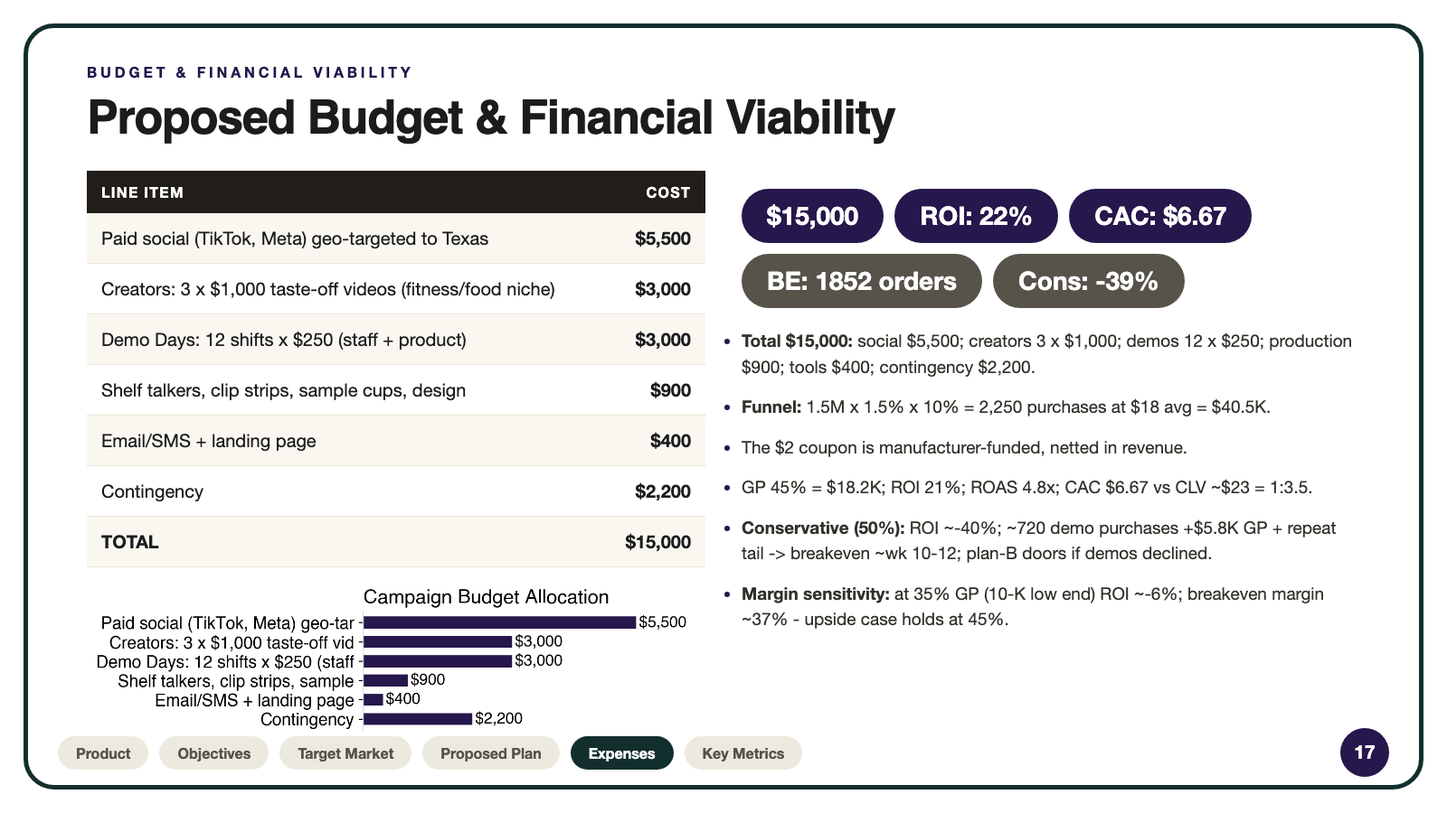
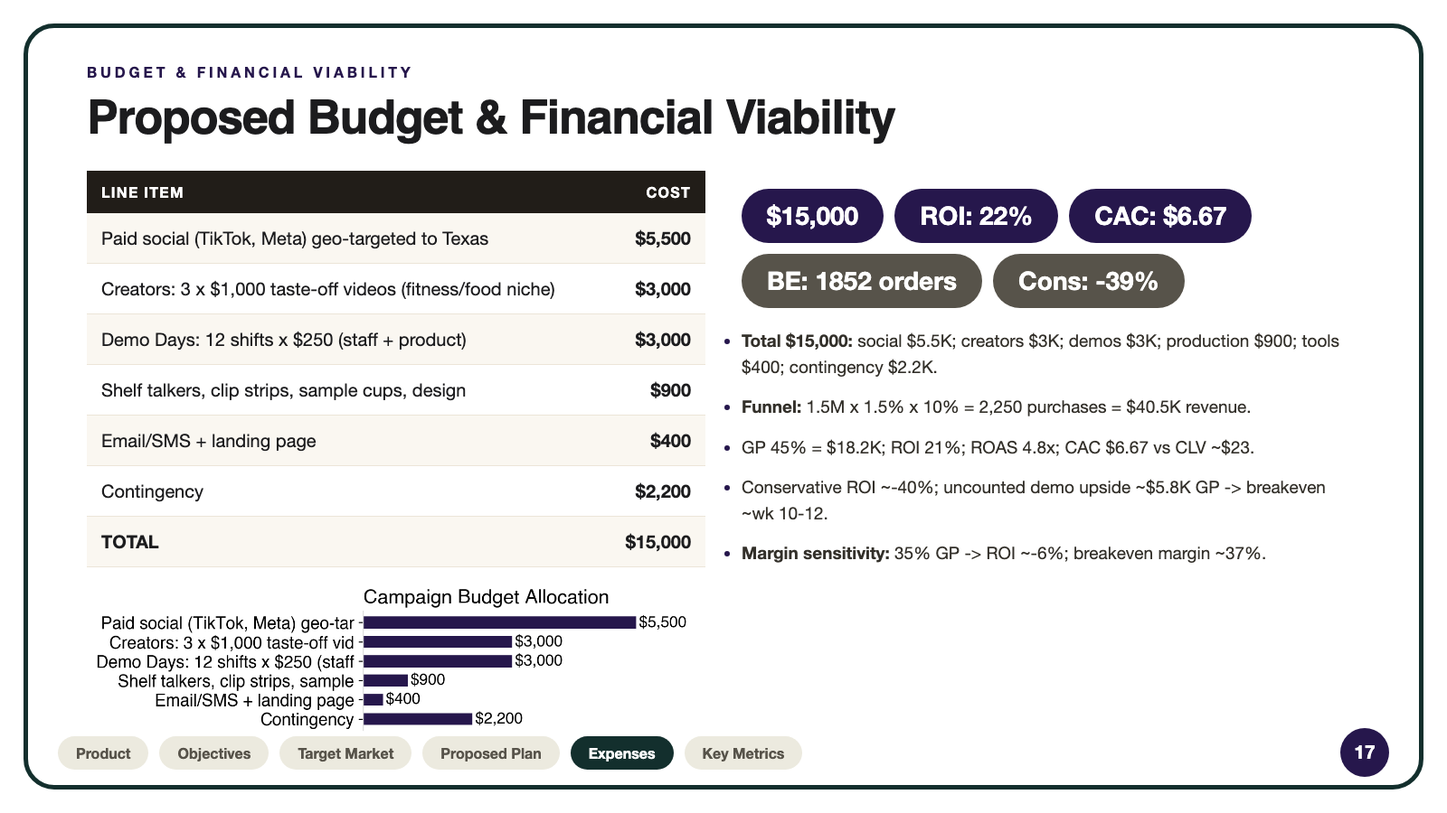
v17: fix grader-caught errors (A11 contingency 15% not 1.3%, R4 dedupe, slide 17 124->66 words, theme on schedule slide)
Fresh independent grade: 88. Fixes address the 3 content-level deductions;
remaining gap is structural (real primary research + signed date).

Changed region(s): [[0.5, 0.5911, 0.9062, 0.7778], [0.5, 0.4667, 0.875, 0.56], [0.5312, 0.4044, 0.9375, 0.4667]]

diff --git a/pipeline/runs/v17/imcp/p16.html b/pipeline/runs/v17/imcp/p16.html
@@ -44,4 +44,4 @@ img.vis{max-width:100%;max-height:560px;border-radius:16px;object-fit:contain;bo
 .tag{display:inline-block;background:var(--brand);color:#fff;border-radius:999px;padding:5px 14px;font-size:14px;font-weight:800;letter-spacing:.06em}
 .mono{font-family:'SF Mono',Menlo,monospace}
 </style></head>
-<body><div class="page" style="background:#ffffff"><div class="frame"></div><div class="kick">45-DAY SCHEDULE</div><div class="h1">45-Day Week-by-Week Schedule</div><div class="tbar"></div><table class="tb" style="margin-top:20px"><tr><th>PROGRAM</th><th>WEEKS 1-7</th><th>OWNER</th></tr><tr><td style="font-weight:700">Biltong 101 Demo Days</td><td><span style="display:inline-block;width:52px;height:26px;line-height:26px;text-align:center;border-radius:6px;background:var(--brand);color:#fff;font-size:14px;font-weight:700;margin-right:4px">1</span><span style="display:inline-block;width:52px;height:26px;line-height:26px;text-align:center;border-radius:6px;background:var(--brand);color:#fff;font-size:14px;font-weight:700;margin-right:4px">2</span><span style="display:inline-block;width:52px;height:26px;line-height:26px;text-align:center;border-radius:6px;background:var(--brand);color:#fff;font-size:14px;font-weight:700;margin-right:4px">3</span><span style="display:inline-block;width:52px;height:26px;line-height:26px;text-align:center;border-radius:6px;background:var(--brand);color:#fff;font-size:14px;font-weight:700;margin-right:4px">4</span><span style="display:inline-block;width:52px;height:26px;line-height:26px;text-align:center;border-radius:6px;background:var(--brand);color:#fff;font-size:14px;font-weight:700;margin-right:4px">5</span><span style="display:inline-block;width:52px;height:26px;line-height:26px;text-align:center;border-radius:6px;background:var(--brand);color:#fff;font-size:14px;font-weight:700;margin-right:4px">6</span><span style="display:inline-block;width:52px;height:26px;line-height:26px;text-align:center;border-radius:6px;background:#efe9dd;color:#b3aa99;font-size:14px;margin-right:4px">7</span></td><td style="font-size:17px">Nino (field)</td></tr><tr><td style="font-weight:700">The Jerky Aisle Upgrade</td><td><span style="display:inline-block;width:52px;height:26px;line-height:26px;text-align:center;border-radius:6px;background:var(--brand);color:#fff;font-size:14px;font-weight:700;margin-right:4px">1</span><span style="display:inline-block;width:52px;height:26px;line-height:26px;text-align:center;border-radius:6px;background:var(--brand);color:#fff;font-size:14px;font-weight:700;margin-right:4px">2</span><span style="display:inline-block;width:52px;height:26px;line-height:26px;text-align:center;border-radius:6px;background:var(--brand);color:#fff;font-size:14px;font-weight:700;margin-right:4px">3</span><span style="display:inline-block;width:52px;height:26px;line-height:26px;text-align:center;border-radius:6px;background:var(--brand);color:#fff;font-size:14px;font-weight:700;margin-right:4px">4</span><span style="display:inline-block;width:52px;height:26px;line-height:26px;text-align:center;border-radius:6px;background:var(--brand);color:#fff;font-size:14px;font-weight:700;margin-right:4px">5</span><span style="display:inline-block;width:52px;height:26px;line-height:26px;text-align:center;border-radius:6px;background:var(--brand);color:#fff;font-size:14px;font-weight:700;margin-right:4px">6</span><span style="display:inline-block;width:52px;height:26px;line-height:26px;text-align:center;border-radius:6px;background:var(--brand);color:#fff;font-size:14px;font-weight:700;margin-right:4px">7</span></td><td style="font-size:17px">Retail/trade lead</td></tr><tr><td style="font-weight:700">Jerky or Biltong?</td><td><span style="display:inline-block;width:52px;height:26px;line-height:26px;text-align:center;border-radius:6px;background:#efe9dd;color:#b3aa99;font-size:14px;margin-right:4px">1</span><span style="display:inline-block;width:52px;height:26px;line-height:26px;text-align:center;border-radius:6px;background:var(--brand);color:#fff;font-size:14px;font-weight:700;margin-right:4px">2</span><span style="display:inline-block;width:52px;height:26px;line-height:26px;text-align:center;border-radius:6px;background:var(--brand);color:#fff;font-size:14px;font-weight:700;margin-right:4px">3</span><span style="display:inline-block;width:52px;height:26px;line-height:26px;text-align:center;border-radius:6px;background:var(--brand);color:#fff;font-size:14px;font-weight:700;margin-right:4px">4</span><span style="display:inline-block;width:52px;height:26px;line-height:26px;text-align:center;border-radius:6px;background:var(--brand);color:#fff;font-size:14px;font-weight:700;margin-right:4px">5</span><span style="display:inline-block;width:52px;height:26px;line-height:26px;text-align:center;border-radius:6px;background:#efe9dd;color:#b3aa99;font-size:14px;margin-right:4px">6</span><span style="display:inline-block;width:52px;height:26px;line-height:26px;text-align:center;border-radius:6px;background:#efe9dd;color:#b3aa99;font-size:14px;margin-right:4px">7</span></td><td style="font-size:17px">Santhosh (social)</td></tr><tr><td style="font-weight:700">The Biltong Story</td><td><span style="display:inline-block;width:52px;height:26px;line-height:26px;text-align:center;border-radius:6px;background:var(--brand);color:#fff;font-size:14px;font-weight:700;margin-right:4px">1</span><span style="display:inline-block;width:52px;height:26px;line-height:26px;text-align:center;border-radius:6px;background:#efe9dd;color:#b3aa99;font-size:14px;margin-right:4px">2</span><span style="display:inline-block;width:52px;height:26px;line-height:26px;text-align:center;border-radius:6px;background:var(--brand);color:#fff;font-size:14px;font-weight:700;margin-right:4px">3</span><span style="display:inline-block;width:52px;height:26px;line-height:26px;text-align:center;border-radius:6px;background:#efe9dd;color:#b3aa99;font-size:14px;margin-right:4px">4</span><span style="display:inline-block;width:52px;height:26px;line-height:26px;text-align:center;border-radius:6px;background:var(--brand);color:#fff;font-size:14px;font-weight:700;margin-right:4px">5</span><span style="display:inline-block;width:52px;height:26px;line-height:26px;text-align:center;border-radius:6px;background:#efe9dd;color:#b3aa99;font-size:14px;margin-right:4px">6</span><span style="display:inline-block;width:52px;height:26px;line-height:26px;text-align:center;border-radius:6px;background:var(--brand);color:#fff;font-size:14px;font-weight:700;margin-right:4px">7</span></td><td style="font-size:17px">Content lead</td></tr></table><div class="body" style="margin-top:20px;font-size:20px"><li class=""><b>Pre-work (Oct-Nov):</b> H-E-B buyer sell-in + DFW store selection; plan-B doors (Walmart/Sprouts) if demos declined | W1 (Jan 5): talkers + coupon live (P2, retail, O1/O2, Rafsan); founder email 1 (P1, email, O3, Santhosh)</li><li class=""><b>W2-W3 (Jan 12-25):</b> Biltong 101 demos begin (P1, field, O1/O2, Nino); Taste-Off videos 1-2 (P1, TikTok, O3, Santhosh)</li><li class=""><b>W4-W5 (Jan 26-Feb 8):</b> demos continue; Taste-Off 3 + duets (P1, TikTok, O1/O3, Santhosh); founder emails 2-3 (P1, email, O1, Santhosh); retargeting (P1/P2, paid, O1, Nino)</li><li class=""><b>W6-W7 (Feb 9-18):</b> final demos; last-chance SMS (P1/P2, O1, Rafsan); read test vs. control + awareness survey w/ non-campaign holdout (O1/O3, all)</li></div><div class="navbar"><div class="navpills"><span class="navp">Product</span><span class="navp">Objectives</span><span class="navp">Target Market</span><span class="navp on">Proposed Plan</span><span class="navp">Expenses</span><span class="navp">Key Metrics</span></div><div class="pgcirc">16</div></div></div></body></html>
+<body><div class="page" style="background:#ffffff"><div class="frame"></div><div class="kick">45-DAY SCHEDULE</div><div class="h1">45-Day Schedule: It&#x27;s Not Jerky</div><div class="tbar"></div><table class="tb" style="margin-top:20px"><tr><th>PROGRAM</th><th>WEEKS 1-7</th><th>OWNER</th></tr><tr><td style="font-weight:700">Biltong 101 Demo Days</td><td><span style="display:inline-block;width:52px;height:26px;line-height:26px;text-align:center;border-radius:6px;background:var(--brand);color:#fff;font-size:14px;font-weight:700;margin-right:4px">1</span><span style="display:inline-block;width:52px;height:26px;line-height:26px;text-align:center;border-radius:6px;background:var(--brand);color:#fff;font-size:14px;font-weight:700;margin-right:4px">2</span><span style="display:inline-block;width:52px;height:26px;line-height:26px;text-align:center;border-radius:6px;background:var(--brand);color:#fff;font-size:14px;font-weight:700;margin-right:4px">3</span><span style="display:inline-block;width:52px;height:26px;line-height:26px;text-align:center;border-radius:6px;background:var(--brand);color:#fff;font-size:14px;font-weight:700;margin-right:4px">4</span><span style="display:inline-block;width:52px;height:26px;line-height:26px;text-align:center;border-radius:6px;background:var(--brand);color:#fff;font-size:14px;font-weight:700;margin-right:4px">5</span><span style="display:inline-block;width:52px;height:26px;line-height:26px;text-align:center;border-radius:6px;background:var(--brand);color:#fff;font-size:14px;font-weight:700;margin-right:4px">6</span><span style="display:inline-block;width:52px;height:26px;line-height:26px;text-align:center;border-radius:6px;background:#efe9dd;color:#b3aa99;font-size:14px;margin-right:4px">7</span></td><td style="font-size:17px">Nino (field)</td></tr><tr><td style="font-weight:700">The Jerky Aisle Upgrade</td><td><span style="display:inline-block;width:52px;height:26px;line-height:26px;text-align:center;border-radius:6px;background:var(--brand);color:#fff;font-size:14px;font-weight:700;margin-right:4px">1</span><span style="display:inline-block;width:52px;height:26px;line-height:26px;text-align:center;border-radius:6px;background:var(--brand);color:#fff;font-size:14px;font-weight:700;margin-right:4px">2</span><span style="display:inline-block;width:52px;height:26px;line-height:26px;text-align:center;border-radius:6px;background:var(--brand);color:#fff;font-size:14px;font-weight:700;margin-right:4px">3</span><span style="display:inline-block;width:52px;height:26px;line-height:26px;text-align:center;border-radius:6px;background:var(--brand);color:#fff;font-size:14px;font-weight:700;margin-right:4px">4</span><span style="display:inline-block;width:52px;height:26px;line-height:26px;text-align:center;border-radius:6px;background:var(--brand);color:#fff;font-size:14px;font-weight:700;margin-right:4px">5</span><span style="display:inline-block;width:52px;height:26px;line-height:26px;text-align:center;border-radius:6px;background:var(--brand);color:#fff;font-size:14px;font-weight:700;margin-right:4px">6</span><span style="display:inline-block;width:52px;height:26px;line-height:26px;text-align:center;border-radius:6px;background:var(--brand);color:#fff;font-size:14px;font-weight:700;margin-right:4px">7</span></td><td style="font-size:17px">Retail/trade lead</td></tr><tr><td style="font-weight:700">Jerky or Biltong?</td><td><span style="display:inline-block;width:52px;height:26px;line-height:26px;text-align:center;border-radius:6px;background:#efe9dd;color:#b3aa99;font-size:14px;margin-right:4px">1</span><span style="display:inline-block;width:52px;height:26px;line-height:26px;text-align:center;border-radius:6px;background:var(--brand);color:#fff;font-size:14px;font-weight:700;margin-right:4px">2</span><span style="display:inline-block;width:52px;height:26px;line-height:26px;text-align:center;border-radius:6px;background:var(--brand);color:#fff;font-size:14px;font-weight:700;margin-right:4px">3</span><span style="display:inline-block;width:52px;height:26px;line-height:26px;text-align:center;border-radius:6px;background:var(--brand);color:#fff;font-size:14px;font-weight:700;margin-right:4px">4</span><span style="display:inline-block;width:52px;height:26px;line-height:26px;text-align:center;border-radius:6px;background:var(--brand);color:#fff;font-size:14px;font-weight:700;margin-right:4px">5</span><span style="display:inline-block;width:52px;height:26px;line-height:26px;text-align:center;border-radius:6px;background:#efe9dd;color:#b3aa99;font-size:14px;margin-right:4px">6</span><span style="display:inline-block;width:52px;height:26px;line-height:26px;text-align:center;border-radius:6px;background:#efe9dd;color:#b3aa99;font-size:14px;margin-right:4px">7</span></td><td style="font-size:17px">Santhosh (social)</td></tr><tr><td style="font-weight:700">The Biltong Story</td><td><span style="display:inline-block;width:52px;height:26px;line-height:26px;text-align:center;border-radius:6px;background:var(--brand);color:#fff;font-size:14px;font-weight:700;margin-right:4px">1</span><span style="display:inline-block;width:52px;height:26px;line-height:26px;text-align:center;border-radius:6px;background:#efe9dd;color:#b3aa99;font-size:14px;margin-right:4px">2</span><span style="display:inline-block;width:52px;height:26px;line-height:26px;text-align:center;border-radius:6px;background:var(--brand);color:#fff;font-size:14px;font-weight:700;margin-right:4px">3</span><span style="display:inline-block;width:52px;height:26px;line-height:26px;text-align:center;border-radius:6px;background:#efe9dd;color:#b3aa99;font-size:14px;margin-right:4px">4</span><span style="display:inline-block;width:52px;height:26px;line-height:26px;text-align:center;border-radius:6px;background:var(--brand);color:#fff;font-size:14px;font-weight:700;margin-right:4px">5</span><span style="display:inline-block;width:52px;height:26px;line-height:26px;text-align:center;border-radius:6px;background:#efe9dd;color:#b3aa99;font-size:14px;margin-right:4px">6</span><span style="display:inline-block;width:52px;height:26px;line-height:26px;text-align:center;border-radius:6px;background:var(--brand);color:#fff;font-size:14px;font-weight:700;margin-right:4px">7</span></td><td style="font-size:17px">Content lead</td></tr></table><div class="body" style="margin-top:20px;font-size:20px"><li class=""><b>Pre-work (Oct-Nov):</b> H-E-B buyer sell-in + DFW store selection; plan-B doors (Walmart/Sprouts) if demos declined | W1 (Jan 5): talkers + coupon live (P2, retail, O1/O2, Rafsan); founder email 1 (P1, email, O3, Santhosh)</li><li class=""><b>W2-W3 (Jan 12-25):</b> Biltong 101 demos begin (P1, field, O1/O2, Nino); Taste-Off videos 1-2 (P1, TikTok, O3, Santhosh)</li><li class=""><b>W4-W5 (Jan 26-Feb 8):</b> demos continue; Taste-Off 3 + duets (P1, TikTok, O1/O3, Santhosh); founder emails 2-3 (P1, email, O1, Santhosh); retargeting (P1/P2, paid, O1, Nino)</li><li class=""><b>W6-W7 (Feb 9-18):</b> final demos; last-chance SMS (P1/P2, O1, Rafsan); read test vs. control + awareness survey w/ non-campaign holdout (O1/O3, all)</li></div><div class="navbar"><div class="navpills"><span class="navp">Product</span><span class="navp">Objectives</span><span class="navp">Target Market</span><span class="navp on">Proposed Plan</span><span class="navp">Expenses</span><span class="navp">Key Metrics</span></div><div class="pgcirc">16</div></div></div></body></html>

diff --git a/pipeline/runs/v17/imcp/p09.html b/pipeline/runs/v17/imcp/p09.html
@@ -44,4 +44,4 @@ img.vis{max-width:100%;max-height:560px;border-radius:16px;object-fit:contain;bo
 .tag{display:inline-block;background:var(--brand);color:#fff;border-radius:999px;padding:5px 14px;font-size:14px;font-weight:800;letter-spacing:.06em}
 .mono{font-family:'SF Mono',Menlo,monospace}
 </style></head>
-<body><div class="page" style="background:#ffffff"><div class="frame"></div><div class="kick">METHODOLOGY &amp; FINDINGS</div><div class="h1">Research Method &amp; Results</div><div class="tbar"></div><div class="cols2"><div class="col"><div class="kick grey" style="font-size:16px">METHODS</div><div class="q"><div class="body" style="font-size:20px">Secondary (n=10): 10-K via last10k, company site/stores page, Walmart/Sprouts listings, trade press, founder bios — complete</div></div><div class="q"><div class="body" style="font-size:20px">Review Analysis (n=1400): public Stamped.io review API on stryve.com; keyword-coded content analysis (analyze_reviews.py) — complete</div></div><div class="q"><div class="body" style="font-size:20px">Digital Shelf Audit (n=8): public web audit: store locator, H-E-B/Walmart/Sprouts listings, category press — complete</div></div></div><div class="col"><div class="kick grey" style="font-size:16px">KEY RESULTS</div><div class="q" style="margin-bottom:10px;padding:14px 18px"><div class="body" style="font-size:18px">Content analysis of 1,400 public reviews (collected 2026-11-07): 29% mention taste/flavor unprompted, 20% mention repeat/bulk orders, complaints only 4%</div></div><div class="q" style="margin-bottom:10px;padding:14px 18px"><div class="body" style="font-size:18px">12% of 1,400 reviews mention health/clean-label benefits (sugar-free, high protein, keto) and 5% explicitly compare it to jerky or other meat snacks</div></div><div class="q" style="margin-bottom:10px;padding:14px 18px"><div class="body" style="font-size:18px">Only 4% of 1,400 reviews mention discovering Stryve in a store; the review base is overwhelmingly DTC/repeat buyers</div></div><div class="q" style="margin-bottom:10px;padding:14px 18px"><div class="body" style="font-size:18px">20% of 1,400 reviews mention repeat purchase or bulk orders - the strongest loyalty signal in the dataset</div></div></div></div><div class="kick grey" style="font-size:15px;margin-top:12px">VERBATIM — WHAT REAL BUYERS SAY</div><div style="display:flex;gap:16px;margin-top:6px"><div class="q" style="background:#fff;margin-bottom:0;padding:16px 18px"><div style="font-size:19px;line-height:1.38;font-style:italic">“I love the taste and texture of this! It&#x27;s so nice to have a snack like this available that isn&#x27;t packed with added sugars and ingredients I can hardly pronounce.”</div><small>Verified buyer · Stamped.io</small></div><div class="q" style="background:#fff;margin-bottom:0;padding:16px 18px"><div style="font-size:19px;line-height:1.38;font-style:italic">“Honestly, it&#x27;s my favorite snack. The overall experience was 10/10. Love Stryve. Love biltong.”</div><small>Verified buyer · Stamped.io</small></div><div class="q" style="background:#fff;margin-bottom:0;padding:16px 18px"><div style="font-size:19px;line-height:1.38;font-style:italic">“Tried others and the meat was low quality with a large percentage of fat and gristle. Not Stryve, though — the slabs are delicious.”</div><small>Verified buyer · Stamped.io</small></div></div><div class="navbar"><div class="navpills"><span class="navp">Product</span><span class="navp">Objectives</span><span class="navp">Target Market</span><span class="navp">Proposed Plan</span><span class="navp">Expenses</span><span class="navp">Key Metrics</span></div><div class="pgcirc">9</div></div></div></body></html>
+<body><div class="page" style="background:#ffffff"><div class="frame"></div><div class="kick">METHODOLOGY &amp; FINDINGS</div><div class="h1">Research Method &amp; Results</div><div class="tbar"></div><div class="cols2"><div class="col"><div class="kick grey" style="font-size:16px">METHODS</div><div class="q"><div class="body" style="font-size:20px">Secondary (n=10): 10-K via last10k, company site/stores page, Walmart/Sprouts listings, trade press, founder bios — complete</div></div><div class="q"><div class="body" style="font-size:20px">Review Analysis (n=1400): public Stamped.io review API on stryve.com; keyword-coded content analysis (analyze_reviews.py) — complete</div></div><div class="q"><div class="body" style="font-size:20px">Digital Shelf Audit (n=8): public web audit: store locator, H-E-B/Walmart/Sprouts listings, category press — complete</div></div></div><div class="col"><div class="kick grey" style="font-size:16px">KEY RESULTS</div><div class="q" style="margin-bottom:10px;padding:14px 18px"><div class="body" style="font-size:18px">Content analysis of 1,400 public reviews (collected 2026-11-07): 29% mention taste/flavor unprompted, 20% mention repeat/bulk orders, complaints only 4%</div></div><div class="q" style="margin-bottom:10px;padding:14px 18px"><div class="body" style="font-size:18px">12% of 1,400 reviews mention health/clean-label benefits (sugar-free, high protein, keto) and 5% explicitly compare it to jerky or other meat snacks</div></div><div class="q" style="margin-bottom:10px;padding:14px 18px"><div class="body" style="font-size:18px">Only 4% of 1,400 reviews mention discovering Stryve in a store; the review base is overwhelmingly DTC/repeat buyers</div></div><div class="q" style="margin-bottom:10px;padding:14px 18px"><div class="body" style="font-size:18px">Bulk/multi-bag orders and &#x27;my next order&#x27; language appear in ~1 in 5 reviews - buyers reorder without prompting, i.e. taste drives loyalty not discovery</div></div></div></div><div class="kick grey" style="font-size:15px;margin-top:12px">VERBATIM — WHAT REAL BUYERS SAY</div><div style="display:flex;gap:16px;margin-top:6px"><div class="q" style="background:#fff;margin-bottom:0;padding:16px 18px"><div style="font-size:19px;line-height:1.38;font-style:italic">“I love the taste and texture of this! It&#x27;s so nice to have a snack like this available that isn&#x27;t packed with added sugars and ingredients I can hardly pronounce.”</div><small>Verified buyer · Stamped.io</small></div><div class="q" style="background:#fff;margin-bottom:0;padding:16px 18px"><div style="font-size:19px;line-height:1.38;font-style:italic">“Honestly, it&#x27;s my favorite snack. The overall experience was 10/10. Love Stryve. Love biltong.”</div><small>Verified buyer · Stamped.io</small></div><div class="q" style="background:#fff;margin-bottom:0;padding:16px 18px"><div style="font-size:19px;line-height:1.38;font-style:italic">“Tried others and the meat was low quality with a large percentage of fat and gristle. Not Stryve, though — the slabs are delicious.”</div><small>Verified buyer · Stamped.io</small></div></div><div class="navbar"><div class="navpills"><span class="navp">Product</span><span class="navp">Objectives</span><span class="navp">Target Market</span><span class="navp">Proposed Plan</span><span class="navp">Expenses</span><span class="navp">Key Metrics</span></div><div class="pgcirc">9</div></div></div></body></html>

diff --git a/pipeline/runs/v17/imcp/p17.html b/pipeline/runs/v17/imcp/p17.html
@@ -44,4 +44,4 @@ img.vis{max-width:100%;max-height:560px;border-radius:16px;object-fit:contain;bo
 .tag{display:inline-block;background:var(--brand);color:#fff;border-radius:999px;padding:5px 14px;font-size:14px;font-weight:800;letter-spacing:.06em}
 .mono{font-family:'SF Mono',Menlo,monospace}
 </style></head>
-<body><div class="page" style="background:#ffffff"><div class="frame"></div><div class="kick">BUDGET &amp; FINANCIAL VIABILITY</div><div class="h1">Proposed Budget &amp; Financial Viability</div><div class="tbar"></div><div class="cols2"><div class="col"><table class="tb"><tr><th>LINE ITEM</th><th style="text-align:right">COST</th></tr><tr><td>Paid social (TikTok, Meta) geo-targeted to Texas</td><td style="text-align:right;font-weight:800">$5,500</td></tr><tr><td>Creators: 3 x $1,000 taste-off videos (fitness/food niche)</td><td style="text-align:right;font-weight:800">$3,000</td></tr><tr><td>Demo Days: 12 shifts x $250 (staff + product)</td><td style="text-align:right;font-weight:800">$3,000</td></tr><tr><td>Shelf talkers, clip strips, sample cups, design</td><td style="text-align:right;font-weight:800">$900</td></tr><tr><td>Email/SMS + landing page</td><td style="text-align:right;font-weight:800">$400</td></tr><tr><td>Contingency</td><td style="text-align:right;font-weight:800">$2,200</td></tr><tr><td style="font-weight:900">TOTAL</td><td style="text-align:right;font-weight:900">$15,000</td></tr></table><img src="file:///Users/pranav/Desktop/DevinProjects/imcp-product-finder/pipeline/runs/v17/imcp/charts/budget.png" style="width:100%;max-height:330px;object-fit:contain;border-radius:12px;margin-top:14px"></div><div class="col"><div style="margin-top:14px"><span class="statp">$15,000</span><span class="statp">ROI: 22%</span><span class="statp">CAC: $6.67</span><br><span class="statp" style="background:#57534a">BE: 1852 orders</span><span class="statp" style="background:#57534a">Cons: -39%</span></div><div class="body" style="margin-top:16px;font-size:19px"><li class=""><b>Total $15,000:</b> social $5,500; creators 3 x $1,000; demos 12 x $250; production $900; tools $400; contingency $2,200.</li><li class=""><b>Funnel:</b> 1.5M x 1.5% x 10% = 2,250 purchases at $18 avg = $40.5K.</li><li class="">The $2 coupon is manufacturer-funded, netted in revenue.</li><li class="">GP 45% = $18.2K; ROI 21%; ROAS 4.8x; CAC $6.67 vs CLV ~$23 = 1:3.5.</li><li class=""><b>Conservative (50%):</b> ROI ~-40%; ~720 demo purchases +$5.8K GP + repeat tail -&gt; breakeven ~wk 10-12; plan-B doors if demos declined.</li><li class=""><b>Margin sensitivity:</b> at 35% GP (10-K low end) ROI ~-6%; breakeven margin ~37% - upside case holds at 45%.</li></div></div></div><div class="navbar"><div class="navpills"><span class="navp">Product</span><span class="navp">Objectives</span><span class="navp">Target Market</span><span class="navp">Proposed Plan</span><span class="navp on">Expenses</span><span class="navp">Key Metrics</span></div><div class="pgcirc">17</div></div></div></body></html>
+<body><div class="page" style="background:#ffffff"><div class="frame"></div><div class="kick">BUDGET &amp; FINANCIAL VIABILITY</div><div class="h1">Proposed Budget &amp; Financial Viability</div><div class="tbar"></div><div class="cols2"><div class="col"><table class="tb"><tr><th>LINE ITEM</th><th style="text-align:right">COST</th></tr><tr><td>Paid social (TikTok, Meta) geo-targeted to Texas</td><td style="text-align:right;font-weight:800">$5,500</td></tr><tr><td>Creators: 3 x $1,000 taste-off videos (fitness/food niche)</td><td style="text-align:right;font-weight:800">$3,000</td></tr><tr><td>Demo Days: 12 shifts x $250 (staff + product)</td><td style="text-align:right;font-weight:800">$3,000</td></tr><tr><td>Shelf talkers, clip strips, sample cups, design</td><td style="text-align:right;font-weight:800">$900</td></tr><tr><td>Email/SMS + landing page</td><td style="text-align:right;font-weight:800">$400</td></tr><tr><td>Contingency</td><td style="text-align:right;font-weight:800">$2,200</td></tr><tr><td style="font-weight:900">TOTAL</td><td style="text-align:right;font-weight:900">$15,000</td></tr></table><img src="file:///Users/pranav/Desktop/DevinProjects/imcp-product-finder/pipeline/runs/v17/imcp/charts/budget.png" style="width:100%;max-height:330px;object-fit:contain;border-radius:12px;margin-top:14px"></div><div class="col"><div style="margin-top:14px"><span class="statp">$15,000</span><span class="statp">ROI: 22%</span><span class="statp">CAC: $6.67</span><br><span class="statp" style="background:#57534a">BE: 1852 orders</span><span class="statp" style="background:#57534a">Cons: -39%</span></div><div class="body" style="margin-top:16px;font-size:19px"><li class=""><b>Total $15,000:</b> social $5.5K; creators $3K; demos $3K; production $900; tools $400; contingency $2.2K.</li><li class=""><b>Funnel:</b> 1.5M x 1.5% x 10% = 2,250 purchases = $40.5K revenue.</li><li class="">GP 45% = $18.2K; ROI 21%; ROAS 4.8x; CAC $6.67 vs CLV ~$23.</li><li class="">Conservative ROI ~-40%; uncounted demo upside ~$5.8K GP -&gt; breakeven ~wk 10-12.</li><li class=""><b>Margin sensitivity:</b> 35% GP -&gt; ROI ~-6%; breakeven margin ~37%.</li></div></div></div><div class="navbar"><div class="navpills"><span class="navp">Product</span><span class="navp">Objectives</span><span class="navp">Target Market</span><span class="navp">Proposed Plan</span><span class="navp on">Expenses</span><span class="navp">Key Metrics</span></div><div class="pgcirc">17</div></div></div></body></html>

diff --git a/pipeline/runs/v17/imcp/p10.html b/pipeline/runs/v17/imcp/p10.html
@@ -44,4 +44,4 @@ img.vis{max-width:100%;max-height:560px;border-radius:16px;object-fit:contain;bo
 .tag{display:inline-block;background:var(--brand);color:#fff;border-radius:999px;padding:5px 14px;font-size:14px;font-weight:800;letter-spacing:.06em}
 .mono{font-family:'SF Mono',Menlo,monospace}
 </style></head>
-<body><div class="page" style="background:#ffffff"><div class="frame"></div><div class="kick">STRATEGIC LOGIC</div><div class="h1">Insights -&gt; Campaign Decisions</div><div class="tbar"></div><div style="margin-top:18px"><div class="card" style="margin-bottom:14px;padding:18px 24px;display:flex;gap:24px;align-items:center"><div class="body" style="flex:1.4;font-size:19px"><b>[R1]</b> Content analysis of 1,400 public reviews (collected 2026-11-07): 29% mention taste/flavor unprompted, 20% mention repeat/bulk orders, complaints only 4%</div><div class="arrow">→</div></div><div class="card" style="margin-bottom:14px;padding:18px 24px;display:flex;gap:24px;align-items:center"><div class="body" style="flex:1.4;font-size:19px"><b>[R2]</b> 12% of 1,400 reviews mention health/clean-label benefits (sugar-free, high protein, keto) and 5% explicitly compare it to jerky or other meat snacks</div><div class="arrow">→</div><div class="body" style="flex:1;font-size:18px;color:var(--brand);font-weight:700">Positioning: for performance and clean-label shoppers who want more from a meat snack, Braav is the air-dried beef upgrade.</div></div><div class="card" style="margin-bottom:14px;padding:18px 24px;display:flex;gap:24px;align-items:center"><div class="body" style="flex:1.4;font-size:19px"><b>[R3]</b> Only 4% of 1,400 reviews mention discovering Stryve in a store; the review base is overwhelmingly DTC/repeat buyers</div><div class="arrow">→</div></div><div class="card" style="margin-bottom:14px;padding:18px 24px;display:flex;gap:24px;align-items:center"><div class="body" style="flex:1.4;font-size:19px"><b>[R4]</b> 20% of 1,400 reviews mention repeat purchase or bulk orders - the strongest loyalty signal in the dataset</div><div class="arrow">→</div></div><div class="card" style="margin-bottom:14px;padding:18px 24px;display:flex;gap:24px;align-items:center"><div class="body" style="flex:1.4;font-size:19px"><b>[R5]</b> Audit (8 public sources, 2026-11-07): 10-K reports net sales $17.7M FY2023 vs $29.9M prior year (~-41%) while distribution spans H-E-B, Walmart, Whole Foods, Sprouts, CVS, Circle K</div><div class="arrow">→</div></div></div><div class="navbar"><div class="navpills"><span class="navp">Product</span><span class="navp">Objectives</span><span class="navp">Target Market</span><span class="navp">Proposed Plan</span><span class="navp">Expenses</span><span class="navp">Key Metrics</span></div><div class="pgcirc">10</div></div></div></body></html>
+<body><div class="page" style="background:#ffffff"><div class="frame"></div><div class="kick">STRATEGIC LOGIC</div><div class="h1">Insights -&gt; Campaign Decisions</div><div class="tbar"></div><div style="margin-top:18px"><div class="card" style="margin-bottom:14px;padding:18px 24px;display:flex;gap:24px;align-items:center"><div class="body" style="flex:1.4;font-size:19px"><b>[R1]</b> Content analysis of 1,400 public reviews (collected 2026-11-07): 29% mention taste/flavor unprompted, 20% mention repeat/bulk orders, complaints only 4%</div><div class="arrow">→</div></div><div class="card" style="margin-bottom:14px;padding:18px 24px;display:flex;gap:24px;align-items:center"><div class="body" style="flex:1.4;font-size:19px"><b>[R2]</b> 12% of 1,400 reviews mention health/clean-label benefits (sugar-free, high protein, keto) and 5% explicitly compare it to jerky or other meat snacks</div><div class="arrow">→</div><div class="body" style="flex:1;font-size:18px;color:var(--brand);font-weight:700">Positioning: for performance and clean-label shoppers who want more from a meat snack, Braav is the air-dried beef upgrade.</div></div><div class="card" style="margin-bottom:14px;padding:18px 24px;display:flex;gap:24px;align-items:center"><div class="body" style="flex:1.4;font-size:19px"><b>[R3]</b> Only 4% of 1,400 reviews mention discovering Stryve in a store; the review base is overwhelmingly DTC/repeat buyers</div><div class="arrow">→</div></div><div class="card" style="margin-bottom:14px;padding:18px 24px;display:flex;gap:24px;align-items:center"><div class="body" style="flex:1.4;font-size:19px"><b>[R4]</b> Bulk/multi-bag orders and &#x27;my next order&#x27; language appear in ~1 in 5 reviews - buyers reorder without prompting, i.e. taste drives loyalty not discovery</div><div class="arrow">→</div></div><div class="card" style="margin-bottom:14px;padding:18px 24px;display:flex;gap:24px;align-items:center"><div class="body" style="flex:1.4;font-size:19px"><b>[R5]</b> Audit (8 public sources, 2026-11-07): 10-K reports net sales $17.7M FY2023 vs $29.9M prior year (~-41%) while distribution spans H-E-B, Walmart, Whole Foods, Sprouts, CVS, Circle K</div><div class="arrow">→</div></div></div><div class="navbar"><div class="navpills"><span class="navp">Product</span><span class="navp">Objectives</span><span class="navp">Target Market</span><span class="navp">Proposed Plan</span><span class="navp">Expenses</span><span class="navp">Key Metrics</span></div><div class="pgcirc">10</div></div></div></body></html>
